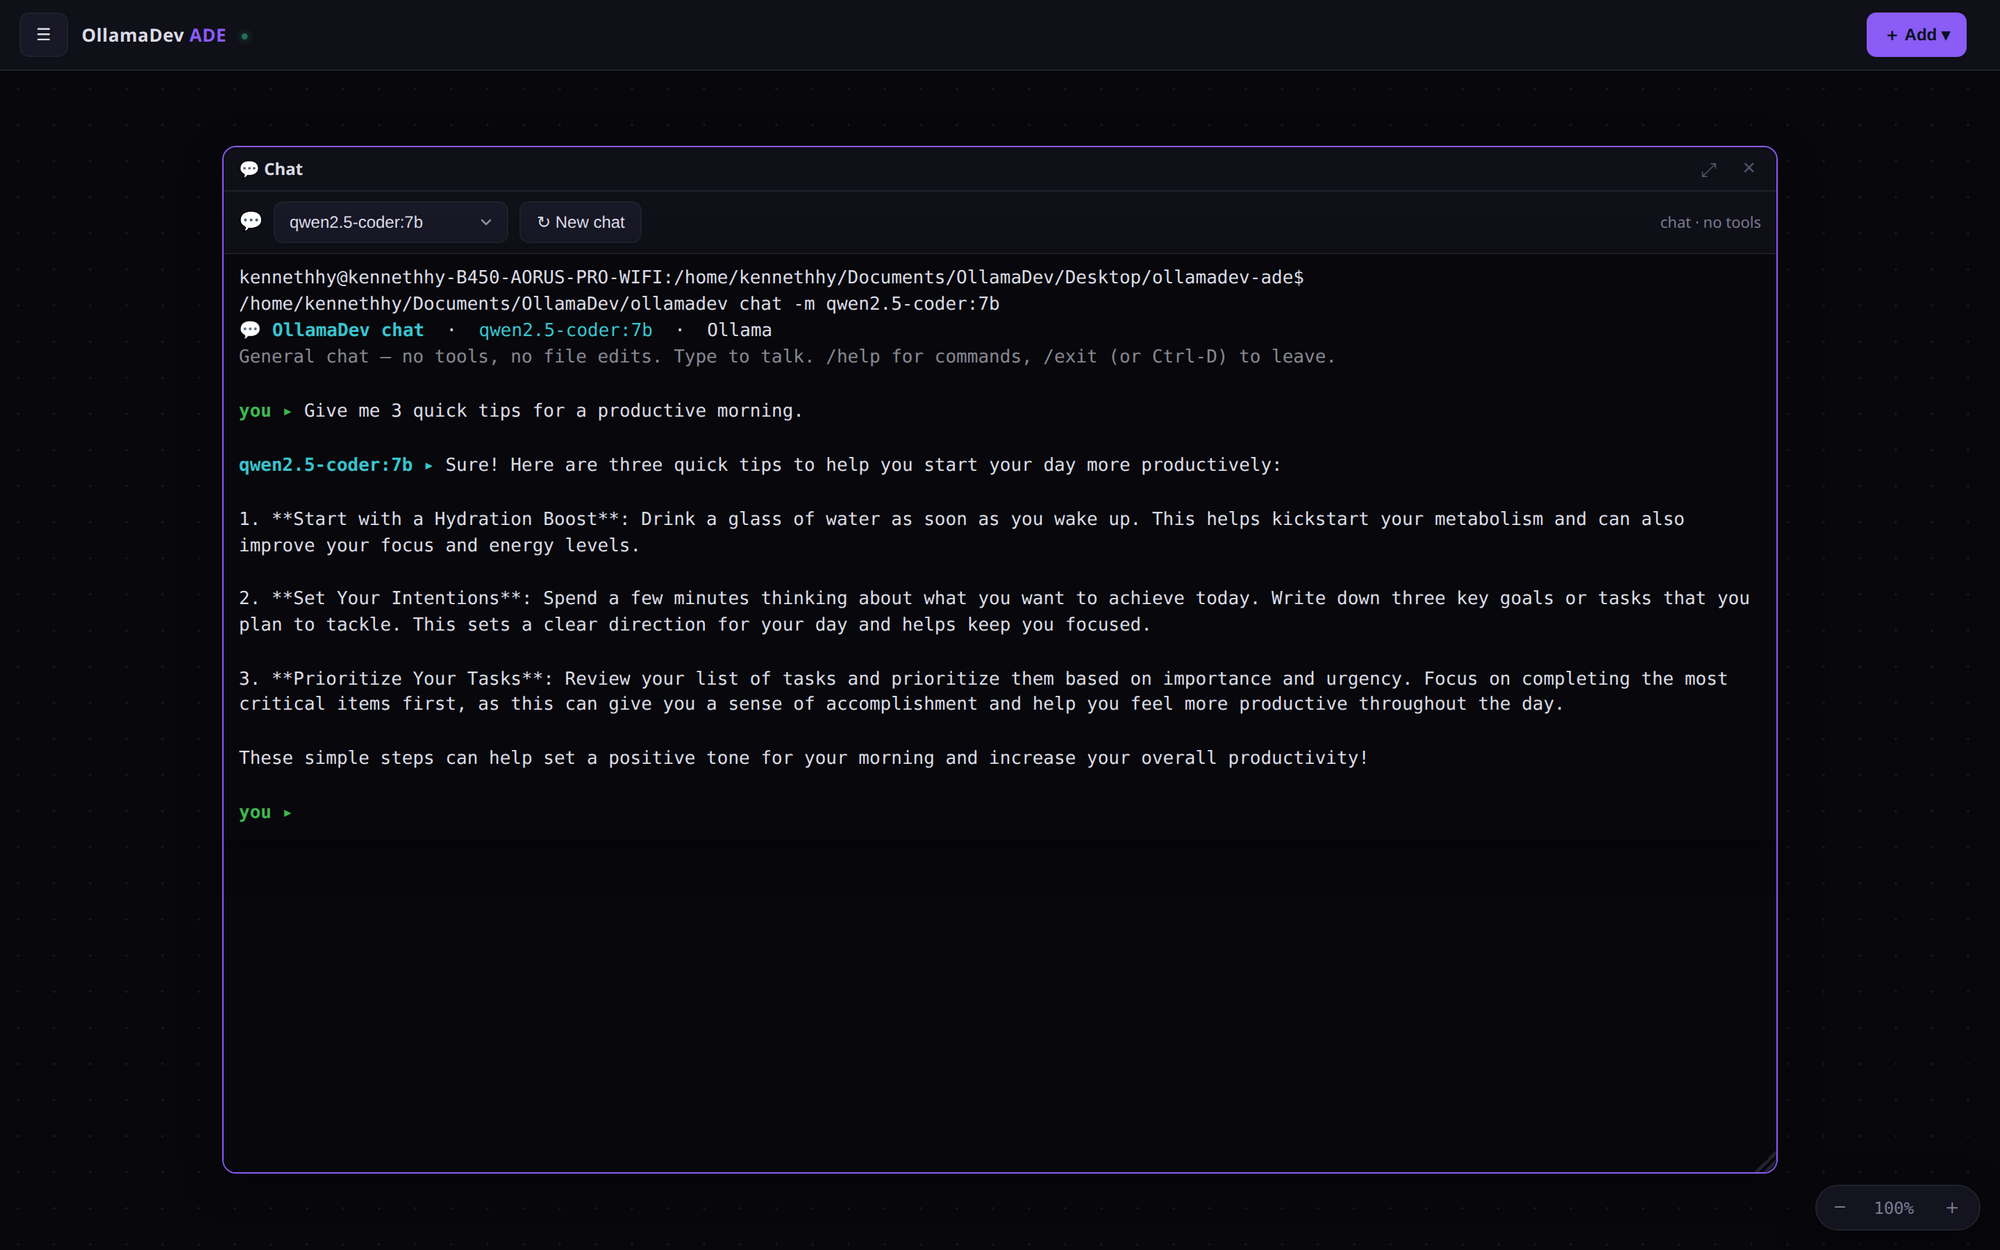
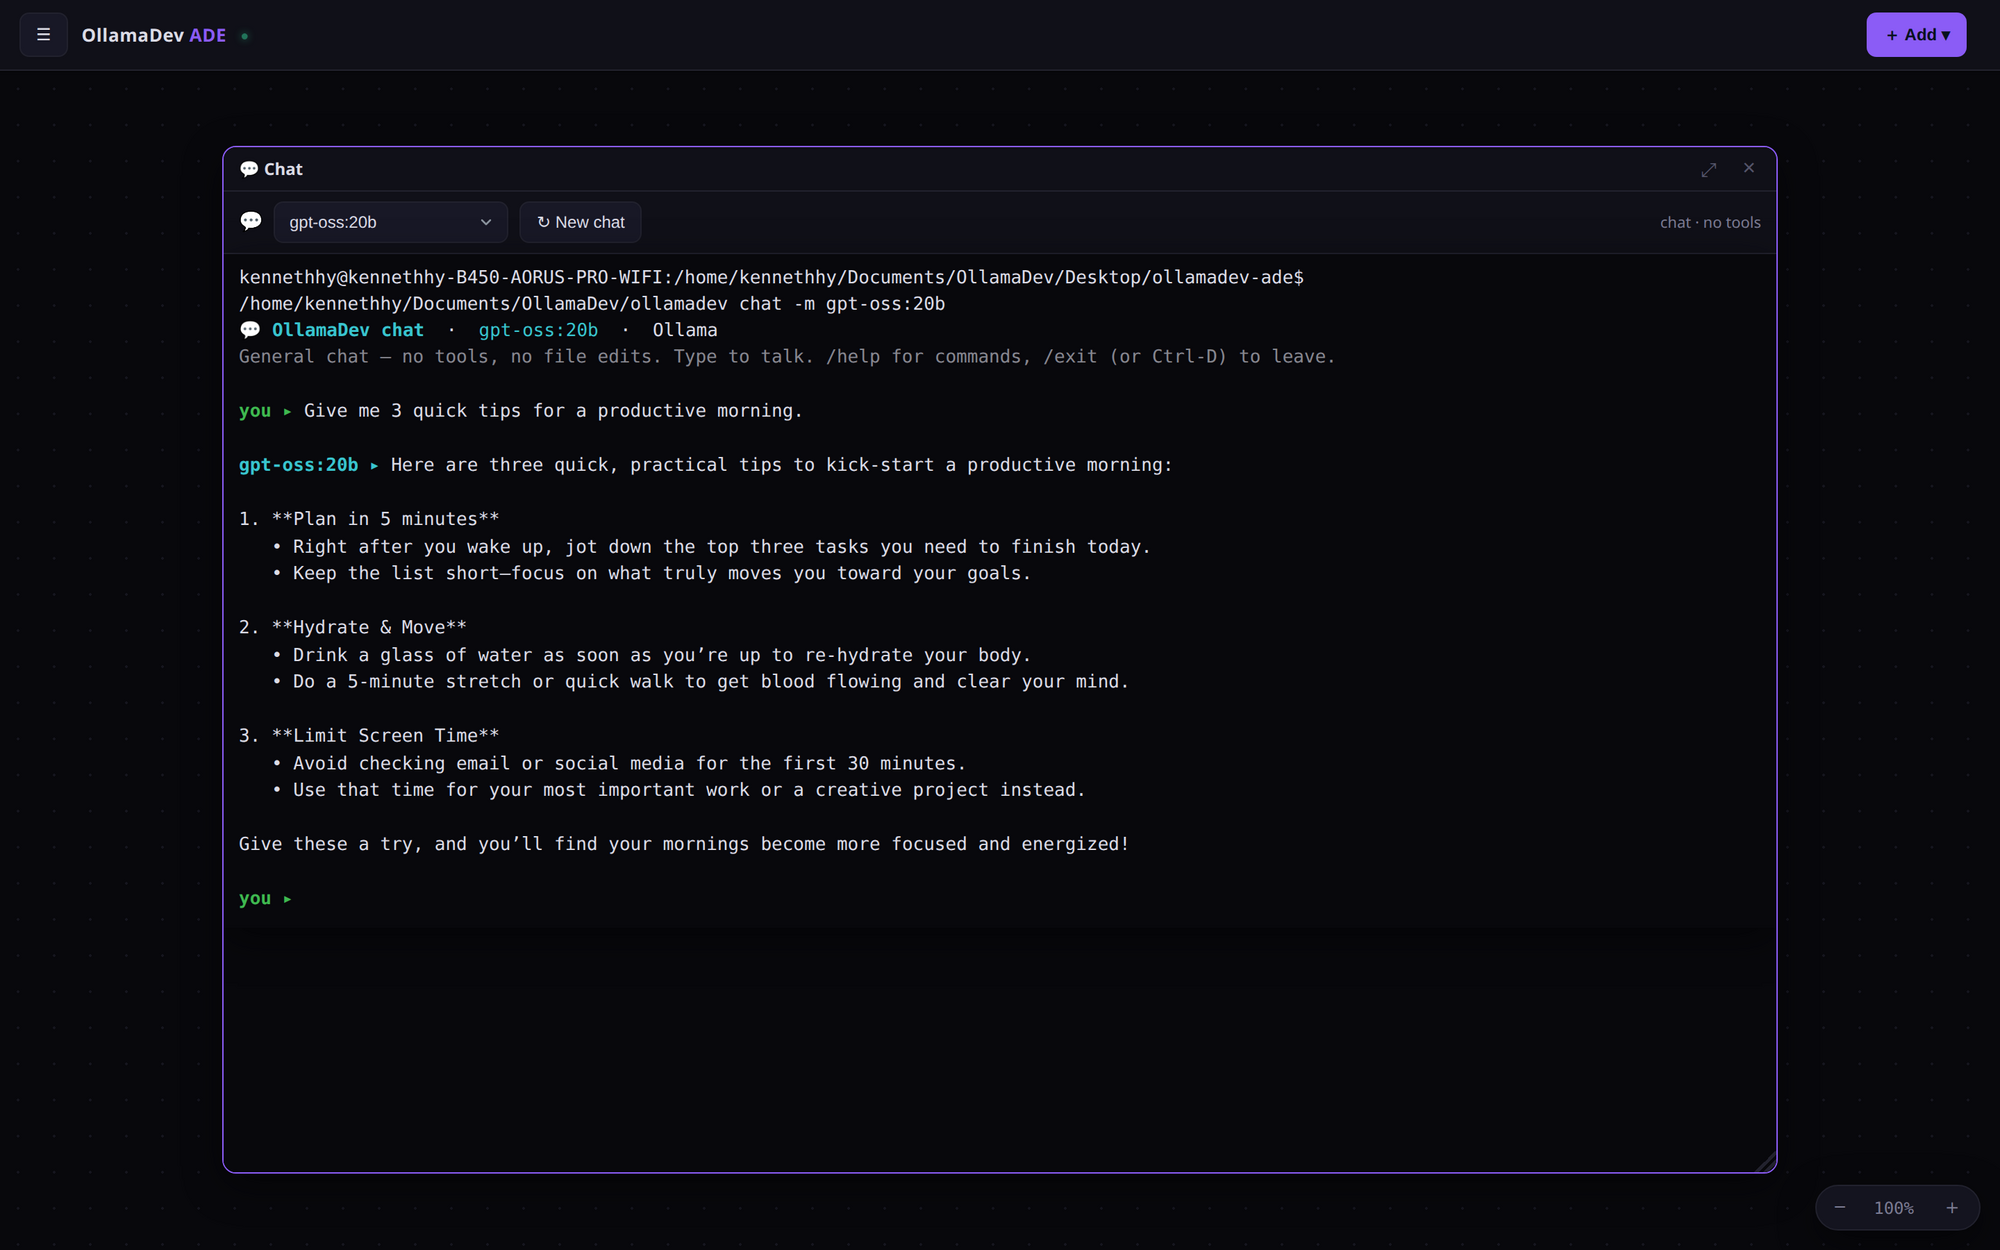
Chat: gpt-oss:20b in the website demo + drop chain-of-thought from `ollamadev chat`
- Regenerate the website Chat demo (docs/img/ade-chat.png) using gpt-oss:20b.
- `ollamadev chat` now ignores a reasoning model's `thinking` field and streams
  only the final answer — a plain chat should show the reply, not the model's
  internal reasoning. OllamaClient::chatWithModel gains an $includeThinking flag
  (default true; the chat command passes false). The agent path is unchanged.

diff --git a/src/50-ollama-client.php b/src/50-ollama-client.php
@@ -175,7 +175,10 @@ class OllamaClient {
         return in_array('vision', self::modelCapabilities($model, $host), true);
     }
 
-    public function chatWithModel(string $model, array $messages, ?callable $handler = null): string {
+    // $includeThinking=false drops a reasoning model's chain-of-thought (the `thinking`
+    // field) and returns only the final answer (`content`) — used by `ollamadev chat`
+    // so a plain chat shows the reply, not the model's internal reasoning.
+    public function chatWithModel(string $model, array $messages, ?callable $handler = null, bool $includeThinking = true): string {
         // Stream when a handler is present so tokens appear as they're produced;
         // fall back to a single blocking response when no handler wants chunks.
         $stream = $handler !== null && (bool)Config::get('ollama.stream', true);
@@ -191,7 +194,7 @@ class OllamaClient {
         if ($stream) {
             // Parse Ollama's NDJSON stream line-by-line, emitting content deltas.
             $content = ''; $buf = '';
-            $opts[CURLOPT_WRITEFUNCTION] = function($ch, $data) use (&$content, &$buf, $handler) {
+            $opts[CURLOPT_WRITEFUNCTION] = function($ch, $data) use (&$content, &$buf, $handler, $includeThinking) {
                 // Ctrl-C during streaming: return 0 to make curl abort the transfer.
                 if (class_exists('Interrupt') && Interrupt::aborted()) return 0;
                 $buf .= $data;
@@ -202,7 +205,7 @@ class OllamaClient {
                     $j = json_decode($line, true);
                     if (!is_array($j)) continue;
                     $delta = $j['message']['content'] ?? '';
-                    if ($delta === '' && !empty($j['message']['thinking'])) $delta = $j['message']['thinking'];
+                    if ($delta === '' && $includeThinking && !empty($j['message']['thinking'])) $delta = $j['message']['thinking'];
                     if ($delta !== '') { $content .= $delta; if ($handler) $handler($delta); }
                     if (!empty($j['done'])) Usage::record($j);
                 }
@@ -223,7 +226,7 @@ class OllamaClient {
             if ($j && isset($j['message'])) {
                 $content = $j['message']['content'] ?? '';
                 $thinking = $j['message']['thinking'] ?? '';
-                if (!empty($thinking) && empty($content)) $content = $thinking;
+                if (!empty($thinking) && empty($content) && $includeThinking) $content = $thinking;
                 if (!empty($content)) {
                     if ($handler) $handler($content);
                     return $content;

diff --git a/src/99-main.php b/src/99-main.php
@@ -596,7 +596,7 @@ if ($argc >= 2 && $argv[1] === 'chat') {
         }
         if (count($msgs) <= 1) { echo json_encode(['error' => 'no messages']) . "\n"; exit(0); }
         if (!$client->checkConnection()) { echo json_encode(['error' => ModelClient::activeLabel() . ' not reachable']) . "\n"; exit(1); }
-        $reply = (string)$client->chatWithModel($model, $msgs);
+        $reply = (string)$client->chatWithModel($model, $msgs, null, false);   // answer only, no chain-of-thought
         echo json_encode(['reply' => $reply, 'model' => $model], JSON_UNESCAPED_SLASHES) . "\n";
         exit(0);
     }
@@ -632,7 +632,7 @@ if ($argc >= 2 && $argv[1] === 'chat') {
         }
         $history[] = ['role' => 'user', 'content' => $line];
         echo $c("\n" . $model . " ▸ ", '1;36');
-        $reply = (string)$client->chatWithModel($model, $history, function (string $delta) { echo $delta; flush(); });
+        $reply = (string)$client->chatWithModel($model, $history, function (string $delta) { echo $delta; flush(); }, false);   // answer only, no chain-of-thought
         echo "\n";
         if ($reply === '') { echo $c("(no reply — is \"$model\" pulled? try: ollamadev models pull $model)\n", '33'); array_pop($history); continue; }
         $history[] = ['role' => 'assistant', 'content' => $reply];